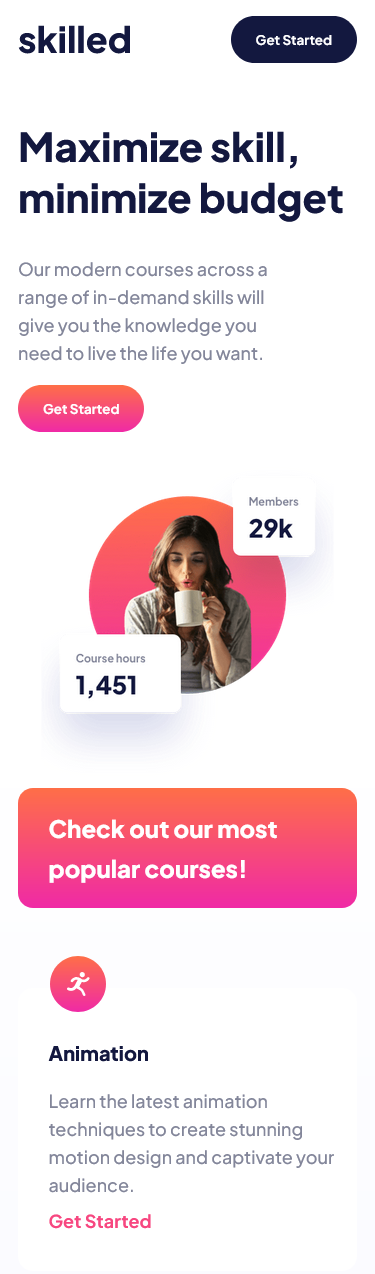
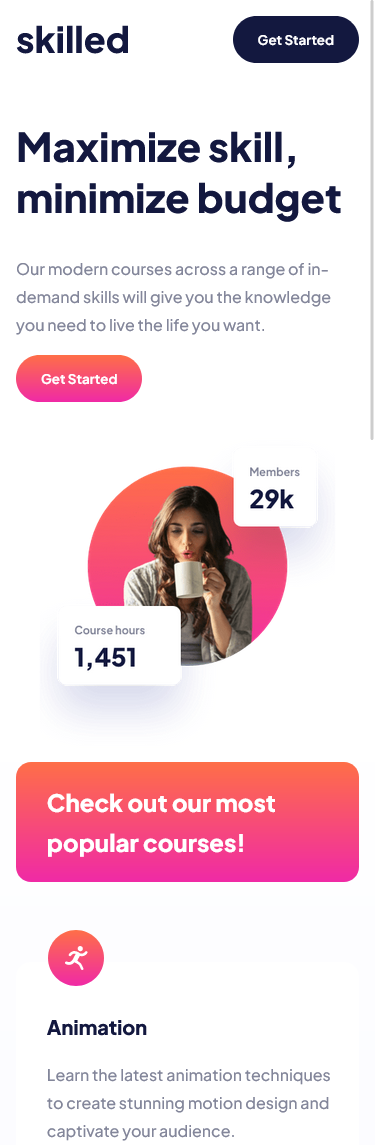
Responsive mobile optimization

diff --git a/css/styles.css b/css/styles.css
@@ -290,17 +290,23 @@ footer {
  }
  @media all and (max-width: 480px) {
     header {
-        padding: 16px 18px;
+        padding: 16px 16px;
     }
     h1 {
         font-size: 40px;
         line-height: 51px;
     } 
+    p {
+        font-size: 16px;
+    }
     #title-section {
-        padding: 2% 18px;
+        padding: 2% 16px;
         display: block;
     }
     .title-container { 
+        width: 100%;
+    }
+    .title-container p {
         width: 100%;
     }
     .title-image-container {
@@ -314,7 +320,7 @@ footer {
     }
     #card-section {
         background-image: linear-gradient(#fff, #F0F1FF);
-        padding: 0 18px 80px 18px;
+        padding: 0 16px 80px 16px;
     }
     .card-content {
         margin: 0;
